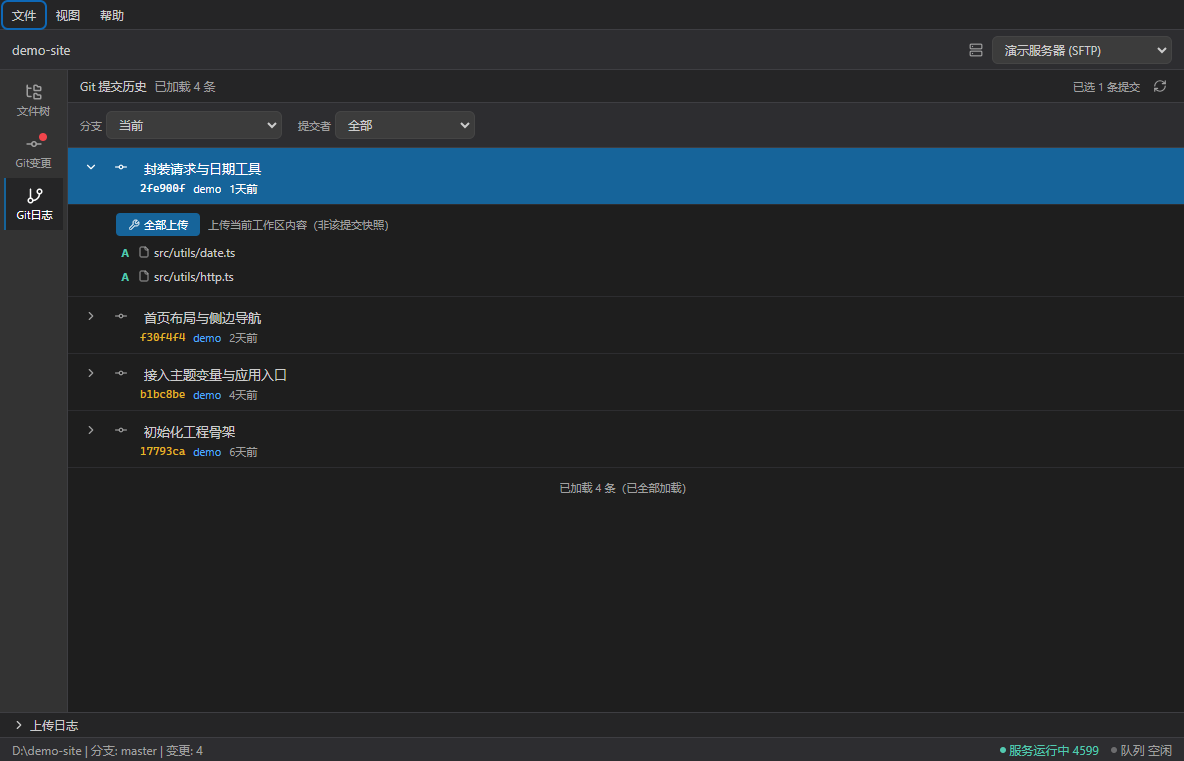
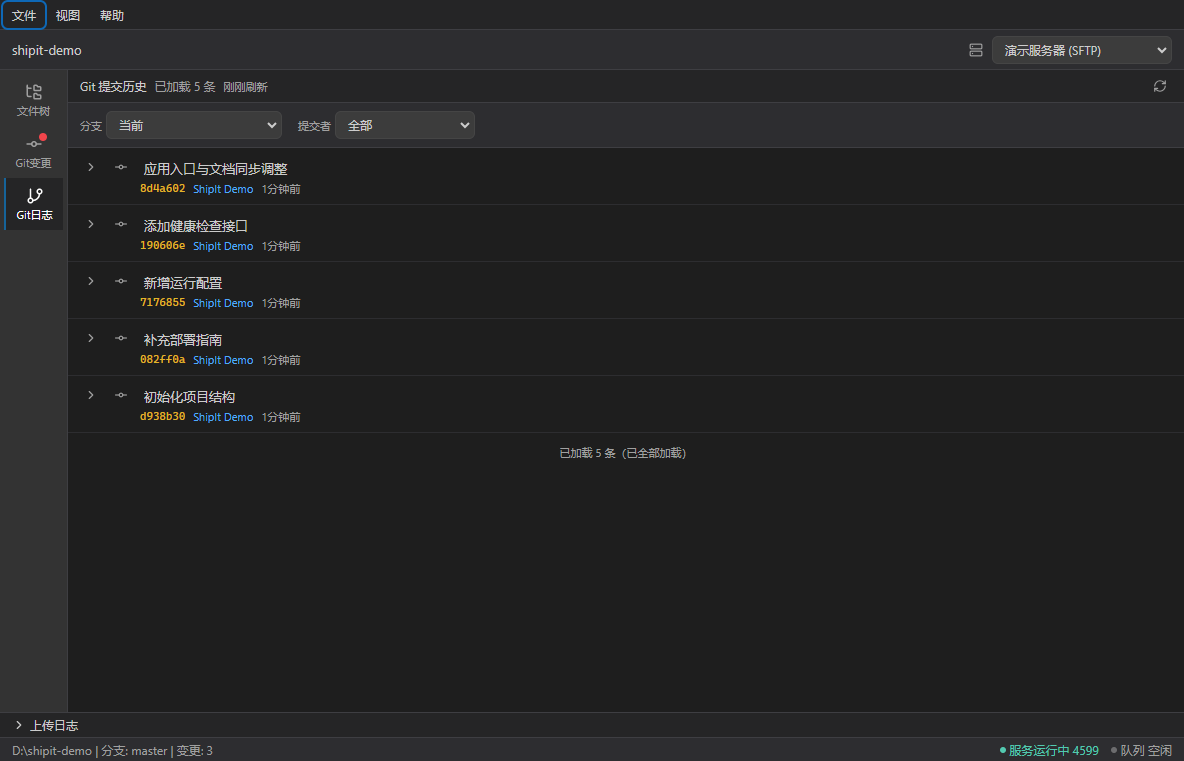
docs: 截图改用中性演示项目重出（不再用真实项目），同步 README 与出图规范
截图（6 张，浅色/深色各一套）：
- 上一版用 `--project=git_gui --real-config` 出图，会带出本地绝对路径与真实目标名，撤回
- 改为中性演示项目 D:\shipit-demo（5 条中文提交 + 3 个未提交改动），
  只传 `--project`、不带 `--real-config`（目标名用夹具的「演示服务器」）
- 出图后演示项目已删除；状态栏显示 `D:\shipit-demo`，无用户名 / Temp / 随机哈希目录
- 不采用默认夹具图：那会带出 `demo-project` 与 `shipit-ui-audit-<随机>` 目录

README：上传链路补「>1MB 显示当前文件百分比」与 symlink 跳过；新增「上传后脚本」；
已知限制补映射前缀兼容、符号链接不跟随、脚本失败不计任务失败。

CLAUDE.md：把「截图用真实项目 + 真实配置」改成「用固定短路径的中性演示项目，
不带 --real-config，出完删目录」，并说明为什么不能用真实项目/默认夹具。

验证：出图时双主题审计（open-project / filetree / git-changes / git-log）
Major 0 / Minor 0；截图逐张核对项目名、目标名、状态栏路径。

diff --git a/README.md b/README.md
@@ -11,7 +11,8 @@
   - Git 变更：以文件树展示未提交文件（M/A/D/? 状态），支持按目录批量上传**仅变更文件**；**多 git 仓库的项目按仓库分组展示各自的未提交变更**（子仓库的文件不会重复计入外层仓库）
   - Git 日志：分支 / 提交者筛选、展开查看单次提交文件、一键上传该提交文件（日志读**项目根**那一个仓库；项目根不是仓库时明确提示「已发现 N 个项目内仓库」，不显示成「暂无提交记录」）
 - **多目标上传**：每个目标独立配置服务器连接（SFTP/FTP/FTPS/FTPES/本地目录）与**目录映射**（本地前缀 → 远端路径）；目标支持**复制**与**手动排序**（名称唯一性校验）
-- **上传链路**：选中文件 → 确认弹窗（展示目标地址与每个文件的远端路径）→ 进度条（可取消）→ 底部日志（含结果明细）；无映射/不存在的文件按**跳过**列出并给出原因，不计入失败
+- **上传链路**：选中文件 → 确认弹窗（展示目标地址与每个文件的远端路径）→ 进度条（可取消，>1MB 的文件额外显示当前文件百分比）→ 底部日志（含结果明细）；无映射/不存在/符号链接的文件按**跳过**列出并给出原因，不计入失败
+- **上传后脚本**：目标可配置一段脚本或命令，全部文件传完后在服务器上执行（SFTP / 本地目录；FTP 不支持）；取消或**有文件失败**时跳过 —— 目标目录不完整时执行重启/切版本不可回滚。脚本结果（退出码/输出）写在上传日志里
 - **键盘操作**（IDEA 风格）：点击选中文件 / 目录 / 提交 → `Ctrl+X` 快速上传（当前目标），或 `Ctrl+Shift+X` 唤起服务器菜单（数字 `1-9/0/A-Z` 或鼠标选择）→ 确认弹窗 `Enter` 上传 / `Esc` 取消；上传中 `Esc` 可中止。`Alt+Enter` = 只上传当前聚焦的那一行（与 `Ctrl+X` 的“整个选区”区分）；`F5` 刷新当前视图（文件树也会重新读取目录）
 - **上传入口**：全部在视图内（右键菜单 + 上述快捷键），文件菜单**不**重复提供上传项；无选区或无上传目标时右键项置灰，**原因写在条目文字里**，同时用 `title` 做悬停补充（禁用项只剩标签可读，title 只是锦上添花）
 - **菜单栏**：VS Code 风格自绘菜单（文件 / 视图 / 帮助），条目带功能图标、快捷键提示与当前项勾选标记；全局配置在「文件 → 设置」
@@ -191,4 +192,5 @@ build/                  # 应用图标（icon.png 源图 / icon.ico）
 
 - 上传为逐文件上传，无断点续传（大文件耗时较长，可通过取消按钮中止）。
 - 目标密码以明文存储于用户目录配置（`app.getPath('userData')/deploy-config.json`），生产使用建议接入系统密钥链（如 keytar）。
-- 目录映射为前缀匹配：无映射规则（`no-mapping`）、文件不存在/已删除/未提交（`missing`）、项目外路径（`outside-project`）都会在确认弹窗中标为"跳过"并给出对应原因，不计入失败数。
+- 目录映射为前缀匹配（Windows 下忽略大小写，兼容 `./`、反斜杠写法）：无映射规则（`no-mapping`）、文件不存在/已删除/未提交（`missing`）、项目外路径（`outside-project`）、**符号链接/junction（`symlink`）** 都会在确认弹窗中标为"跳过"并给出对应原因，不计入失败数。链接不会被跟随 —— 上传的永远是文件本身的字节，不是它指向的目标。
+- 上传后脚本失败**不会**把任务标成失败（已上传的文件仍然算成功），脚本结果只在日志与 `result.postUpload` 里体现。

diff --git a/CLAUDE.md b/CLAUDE.md
@@ -146,15 +146,19 @@ npm run gen:icon       # 换图标后重新生成 build/icon.ico
 
 ## 界面截图（README / 发布用）
 
-README 与分发仓库的 `screenshots/*.png` 用**真实项目 + 真实配置**生成，不要用夹具截图（会出现 `demo-project` 与临时路径）。
+README 与分发仓库的 `screenshots/*.png` 要用**中性演示项目**出图：
+
+- ❌ 不要用真实开发项目（带出本地绝对路径、真实目标名与内网主机）；
+- ❌ 不要用默认夹具（带出 `demo-project` 与 `shipit-ui-audit-<随机>` 目录）；
+- ✅ 在**固定短路径**造一个演示仓库（如 `D:\shipit-demo`：5 条中文提交 + 3 个未提交改动），
+  用 `--project=<该目录>` 出图，**不带 `--real-config`**（目标名用夹具的「演示服务器」），出完删目录。
 
 ```bash
-# 用真实仓库与真实配置出图（端口强制 4599，避免和正在运行的桌面实例抢 4517）
+# 演示项目放在固定短路径：状态栏印出的就是 D:\shipit-demo，干净且不带用户名
 node --experimental-websocket scripts/ui-audit.mjs \
-  --project="D:/ExtWorkspace/git_gui" \
-  --real-config --themes=light \
+  --project="D:/shipit-demo" --themes=light,dark \
   --only=open-project,filetree,git-changes,git-log \
-  --shots=.audit/shots-real
+  --shots=.audit/shots-demo
 ```
 
 然后把 `.audit/shots-real/` 下三张图复制并改名（README 引用的是这三个名字）：
